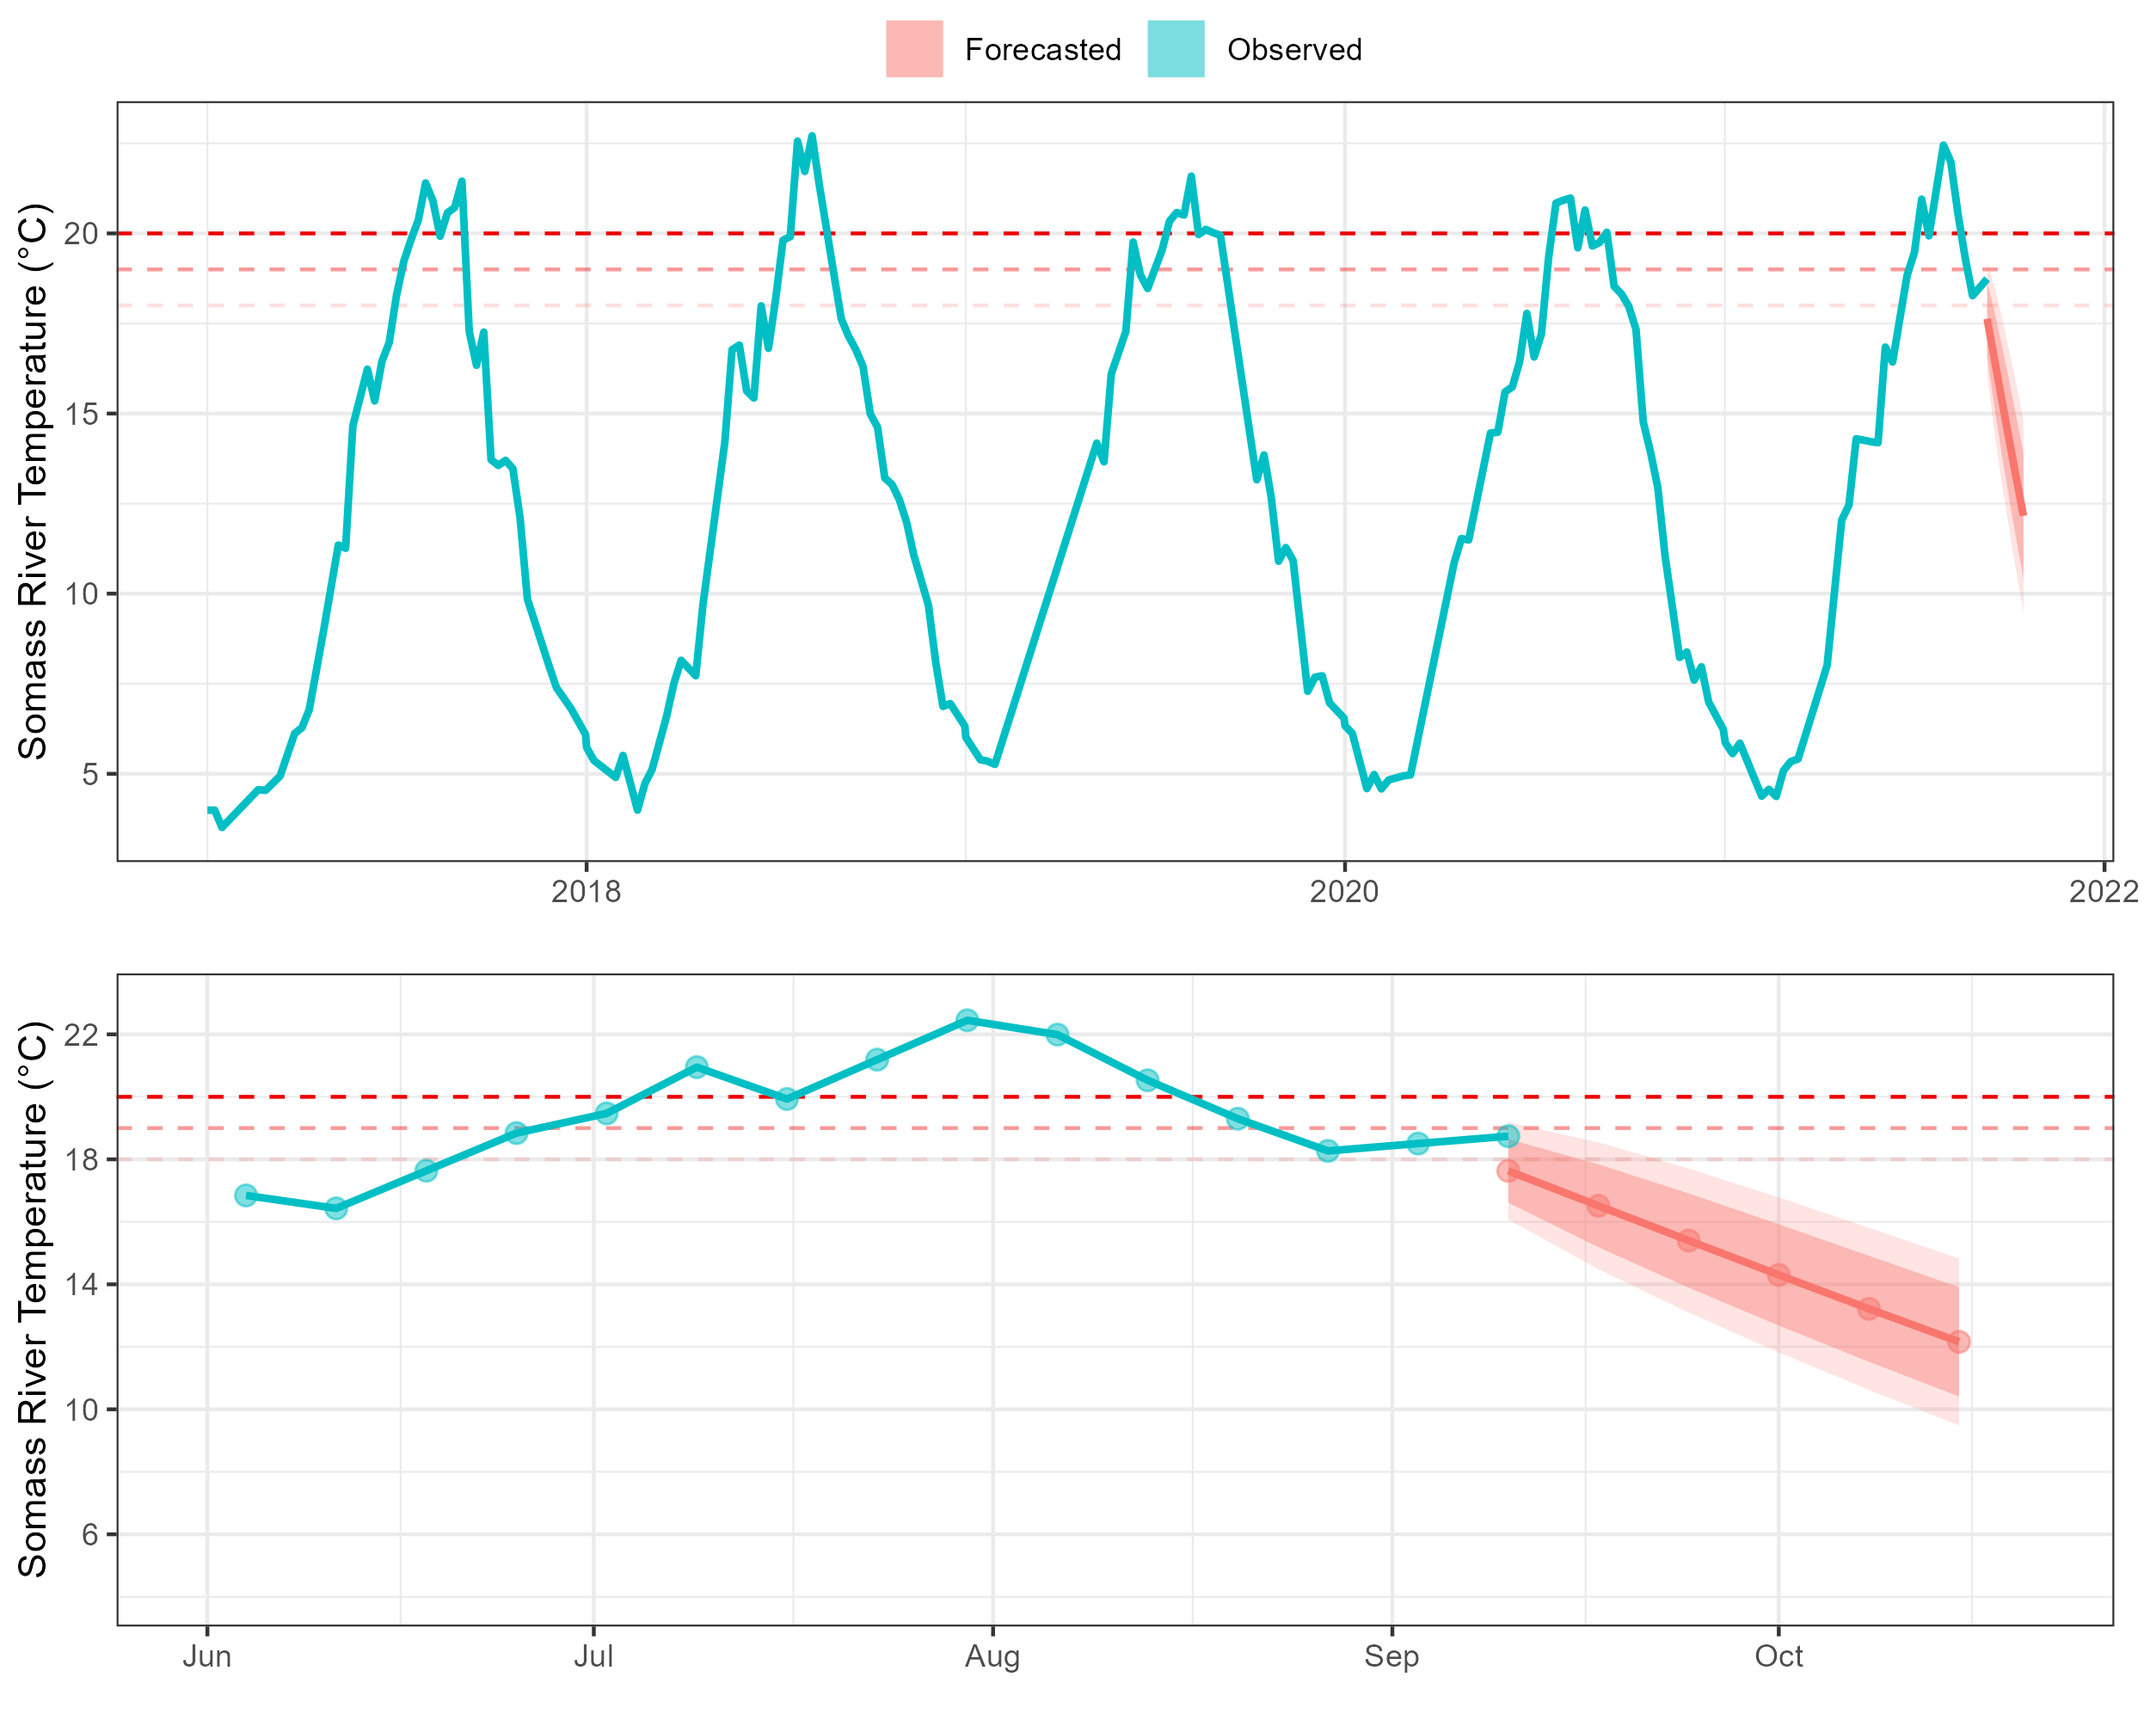
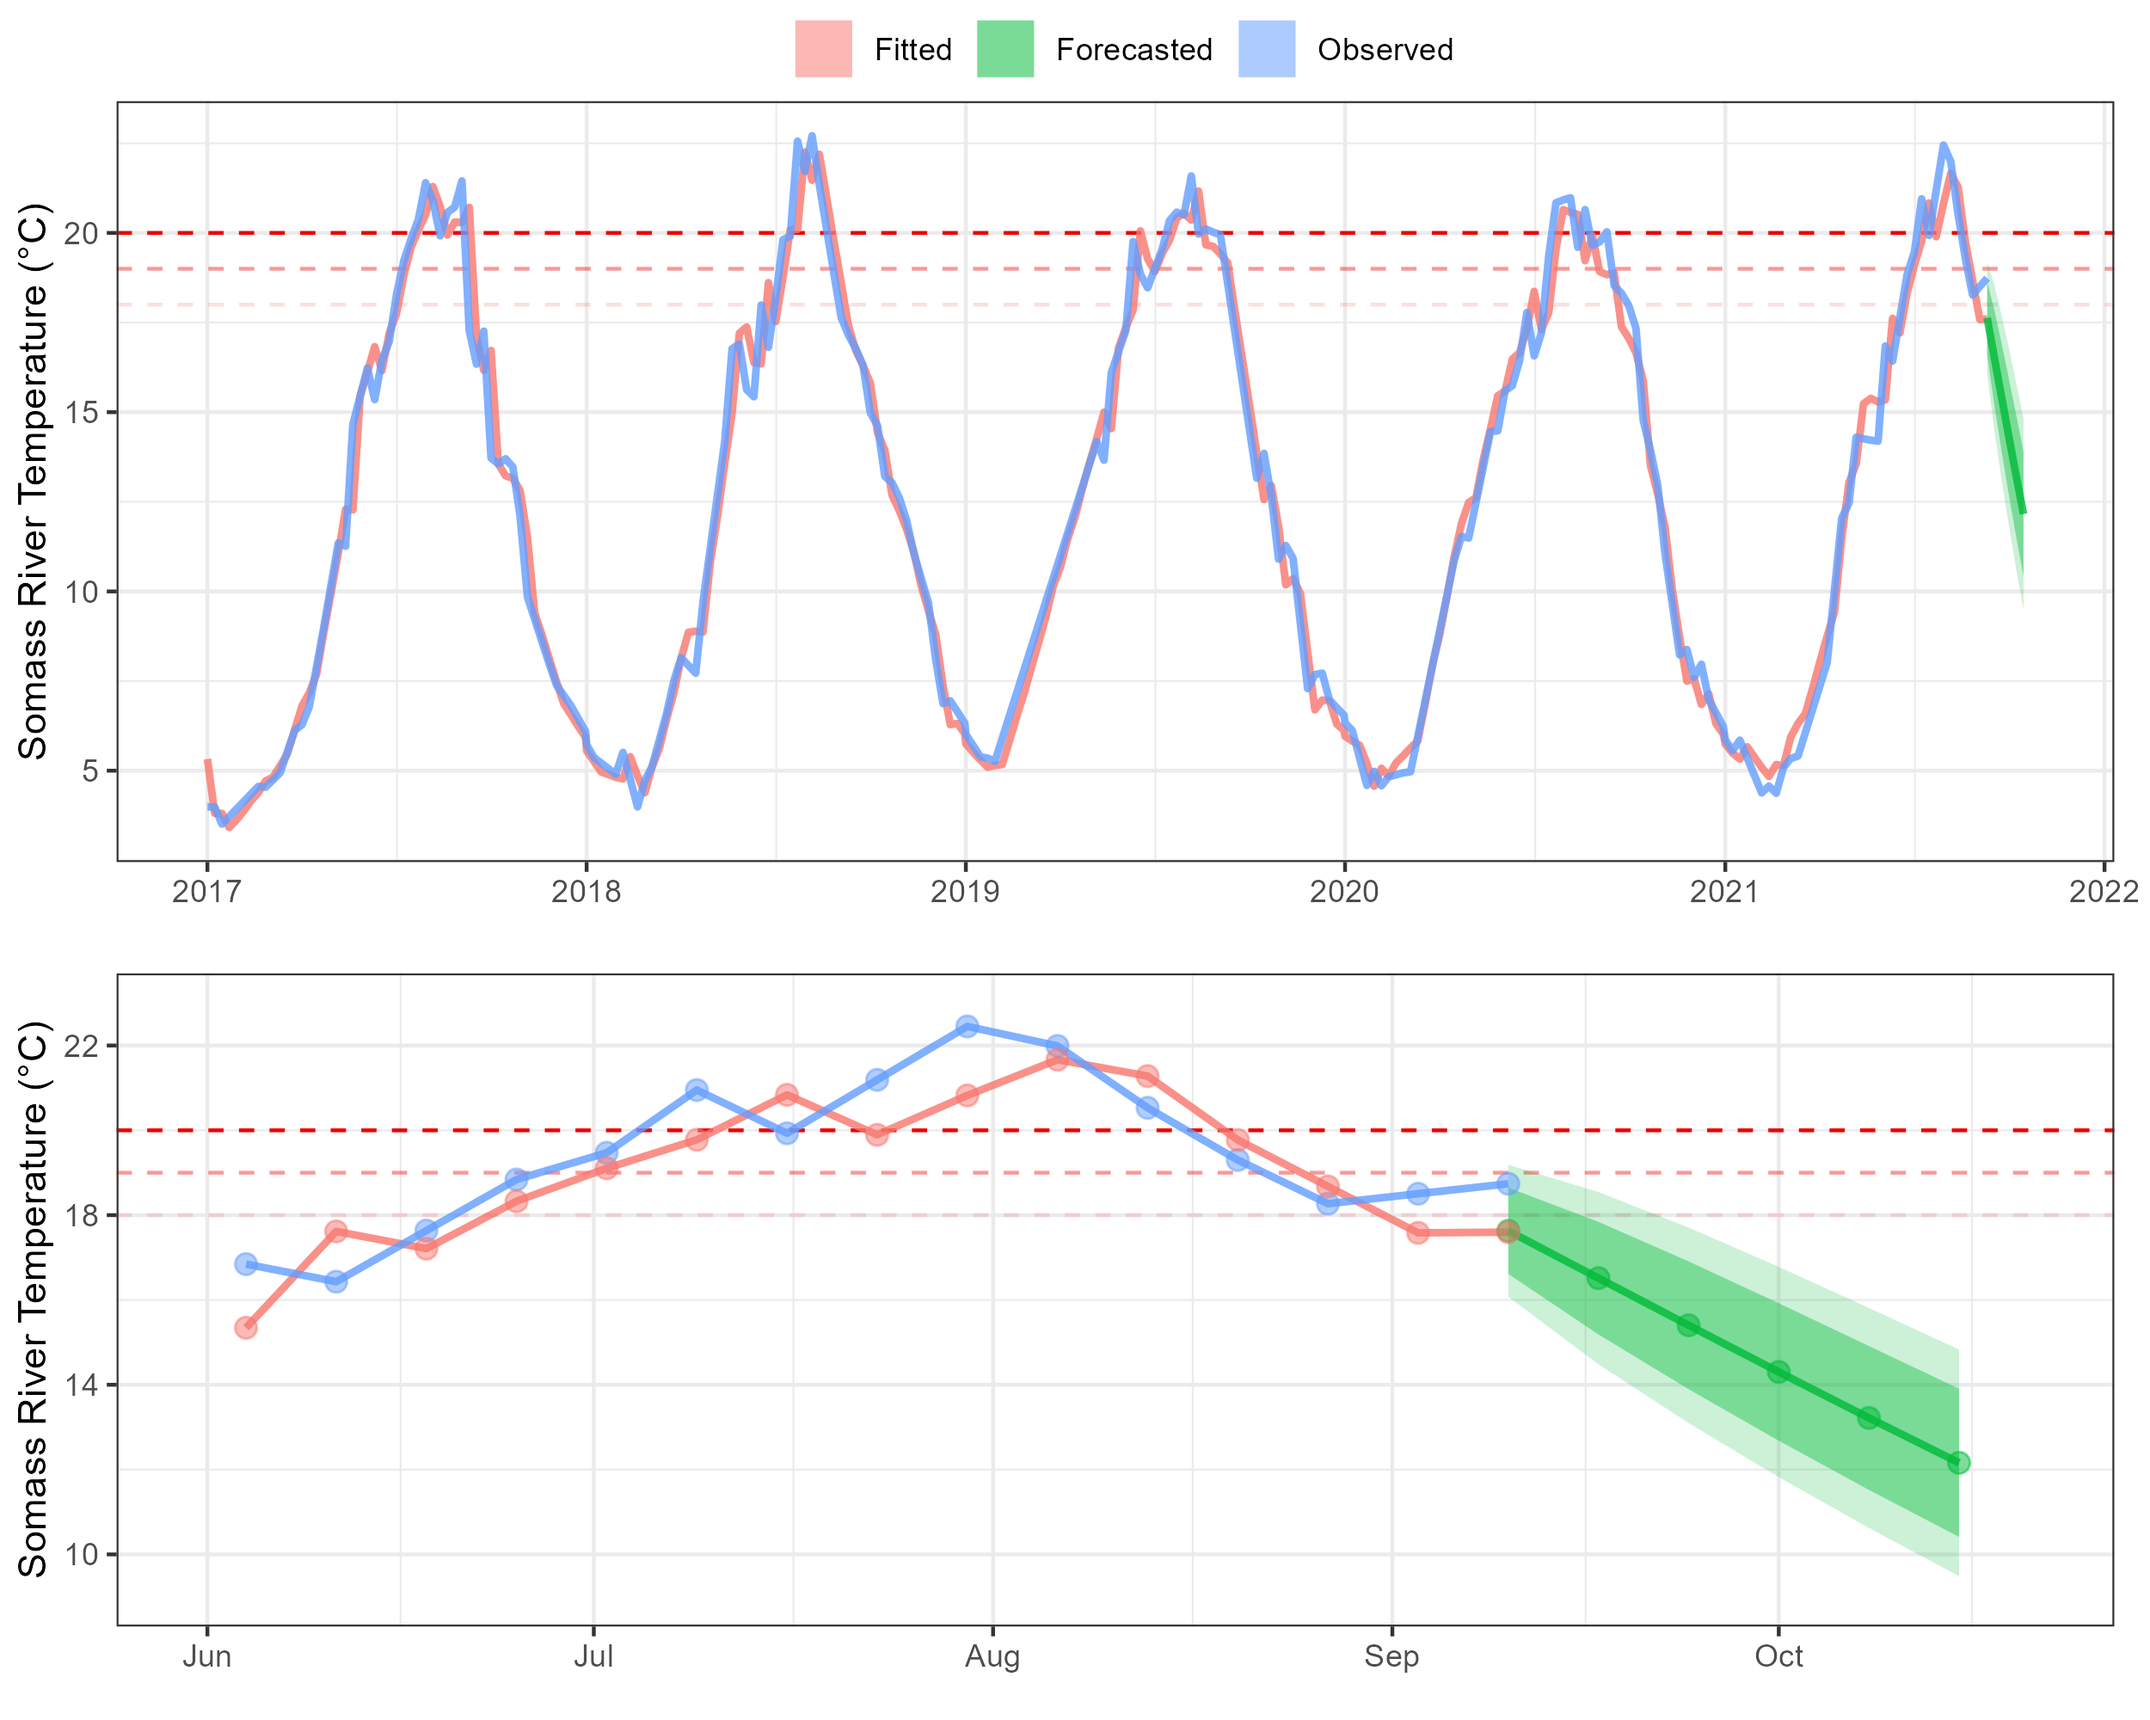
added fitted values and updated reame

diff --git a/README.md b/README.md
@@ -4,9 +4,9 @@ Time series analyses of Somass River temperature data.
 This project includes two main analyses:
 
 ## 1. Pre-season Forecasting 
-This work focuses on identifying drivers of annual temperature patterns that may be related to the severity of in-river conditions throughout the summer.
+This work focuses on identifying the potential drivers of annual temperature patterns that may be related to the severity of in-river conditions throughout the summer.
 
-The directory `clim` analyses relationships between large-scale climatic variables and summer conditions in the Somass River. These analyses identify weak relationships between average summer river temperatures and several climatic indices, including the [Pacific Northwest Index](https://www.cbr.washington.edu/dart/pni), [Mount Cokely snow pack data](https://aqrt.nrs.gov.bc.ca/Data/Location/Summary/Location/3B02A/Interval/Latest) and oceanographic indices courtesy of [NOAA](https://www.ncei.noaa.gov/access/monitoring/enso/sst). 
+The directory `clim` contains analyses that investigate relationships between large-scale climatic variables and summer conditions in the Somass River. These analyses identify weak relationships between average summer river temperatures and several climatic indices, including the [Pacific Northwest Index](https://www.cbr.washington.edu/dart/pni), [Mount Cokely snow pack data](https://aqrt.nrs.gov.bc.ca/Data/Location/Summary/Location/3B02A/Interval/Latest) and several oceanographic indices courtesy of [NOAA](https://www.ncei.noaa.gov/access/monitoring/enso/sst). 
 
 ## 2. In-season Forecasting
 Here, weekly river temperature data are modelled using seasonal terms and air temperature data. An autoregressive integrated moving average ([ARIMA](https://otexts.com/fpp2/arima.html)) model is used to characterize five years of time series data and forecast future river temperatures. 
